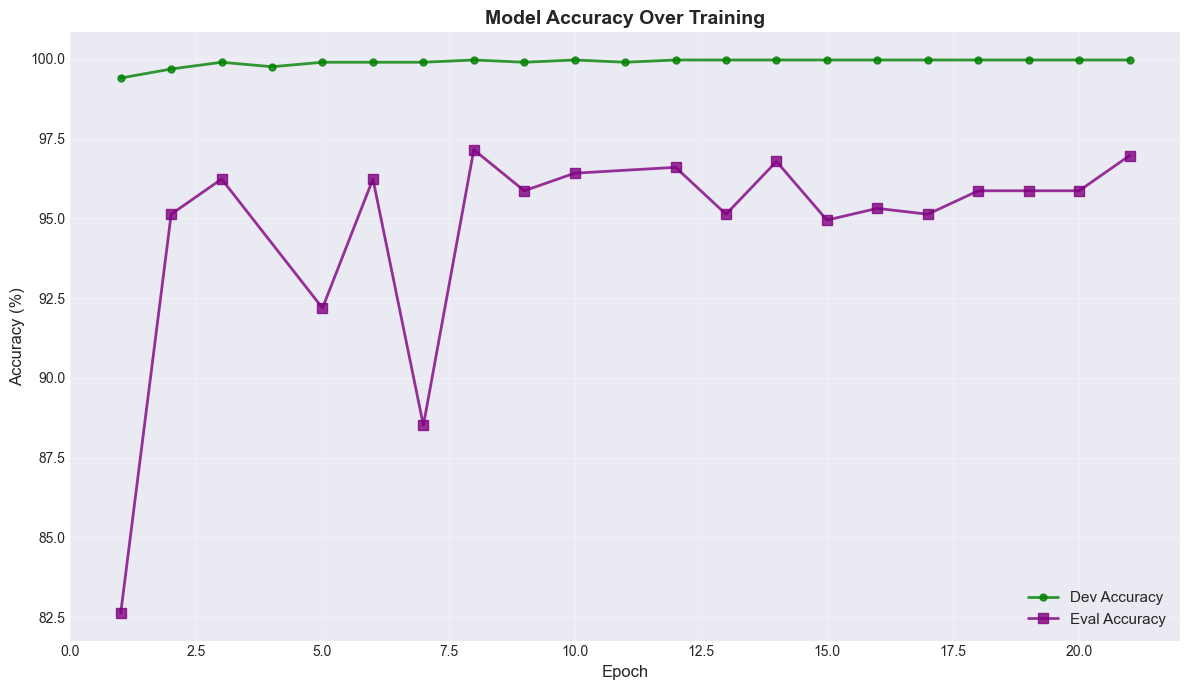
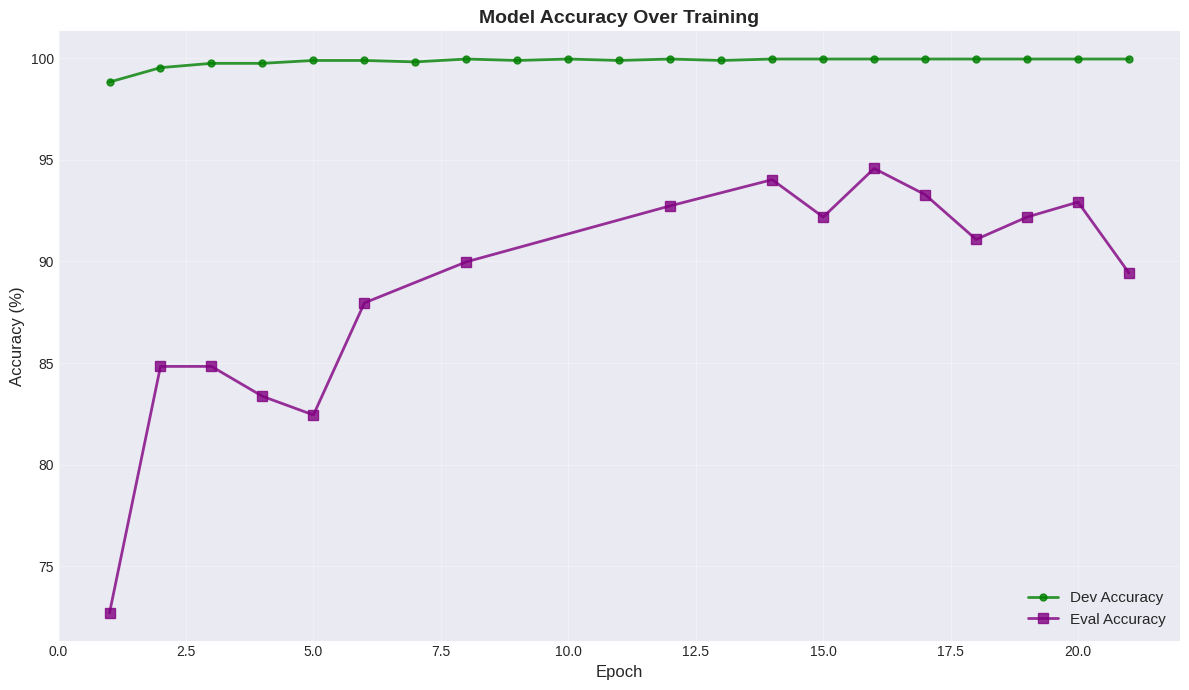
feat: Update evaluation metrics and results images in documentation

diff --git a/docs/results.md b/docs/results.md
@@ -89,14 +89,14 @@ This document presents the **Evaluation** set results for various deep learning 
 
 | Metric   | Value  |
 | -------- | ------ |
-| Accuracy | 96.97% |
-| ROC AUC  | 0.9944 |
-| EER      | 3.12%  |
+| Accuracy | 89.43% |
+| ROC AUC  |  0.9668 |
+| EER      | 10.6618%|
 
 | Class         | Precision | Recall | F1-Score |
 | ------------- | --------- | ------ | -------- |
-| Fake/Spoof    | 0.9705    | 0.9688 | 0.9696   |
-| Real/Bonafide | 0.9688    | 0.9706 | 0.9697   |
+| Fake/Spoof    |   0.8950  | 0.8934 | 0.8942   |
+| Real/Bonafide |  0.8936   | 0.8952 | 0.8944   |
 
 <p float="left" align="center">
   <img src="images/results_5_9.png" width="45%" title="Confusion Matrix (Eval)" />
